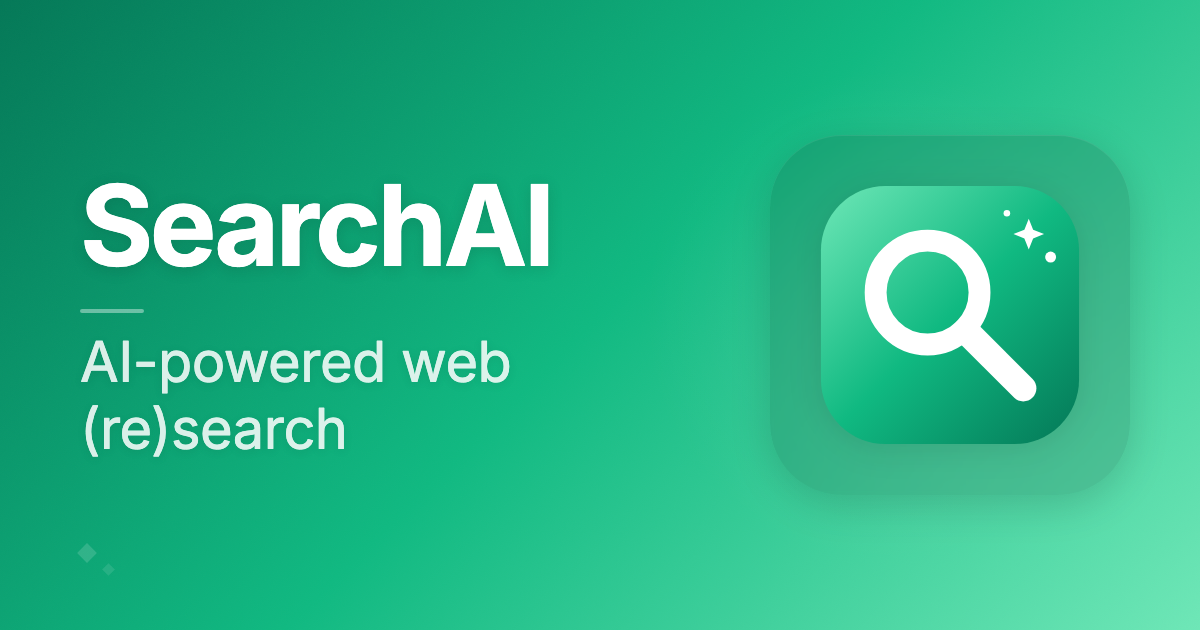
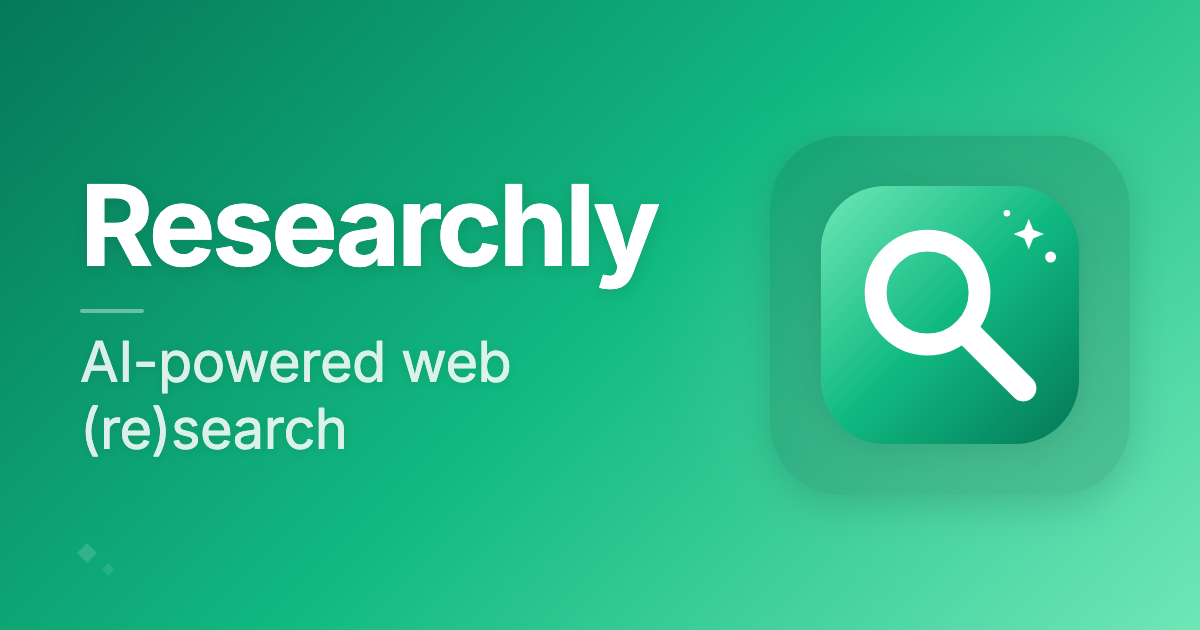
chore: regenerate OG card image and update package-lock for rebrand
Re-render the OG card PNG from the updated HTML template so social previews
display "Researchly" instead of "SearchAI". Run npm install to propagate the
package name change into package-lock.json.

- Regenerate searchai-og-card.png via Playwright screenshot
- Update package-lock.json name from searchai-io to researchly-bot
- Format long meta tag lines in index.html (oxfmt)

Changed region(s): [[0.0617, 0.2714, 0.555, 0.4825]]

diff --git a/index.html b/index.html
@@ -38,7 +38,10 @@
     <meta property="og:image:type" content="image/png" />
     <meta property="og:image:width" content="1200" />
     <meta property="og:image:height" content="630" />
-    <meta property="og:image:alt" content="Researchly - AI-Powered Web Research" />
+    <meta
+      property="og:image:alt"
+      content="Researchly - AI-Powered Web Research"
+    />
 
     <!-- Twitter Card -->
     <meta name="twitter:card" content="summary_large_image" />
@@ -51,7 +54,10 @@
       name="twitter:image"
       content="https://researchly.bot/images/opengraph/searchai-og-card.png"
     />
-    <meta name="twitter:image:alt" content="Researchly - AI-Powered Web Research" />
+    <meta
+      name="twitter:image:alt"
+      content="Researchly - AI-Powered Web Research"
+    />
     <meta name="twitter:url" content="https://researchly.bot" />
     <meta name="twitter:site" content="@williamcallahan" />
     <meta name="twitter:creator" content="@williamcallahan" />
